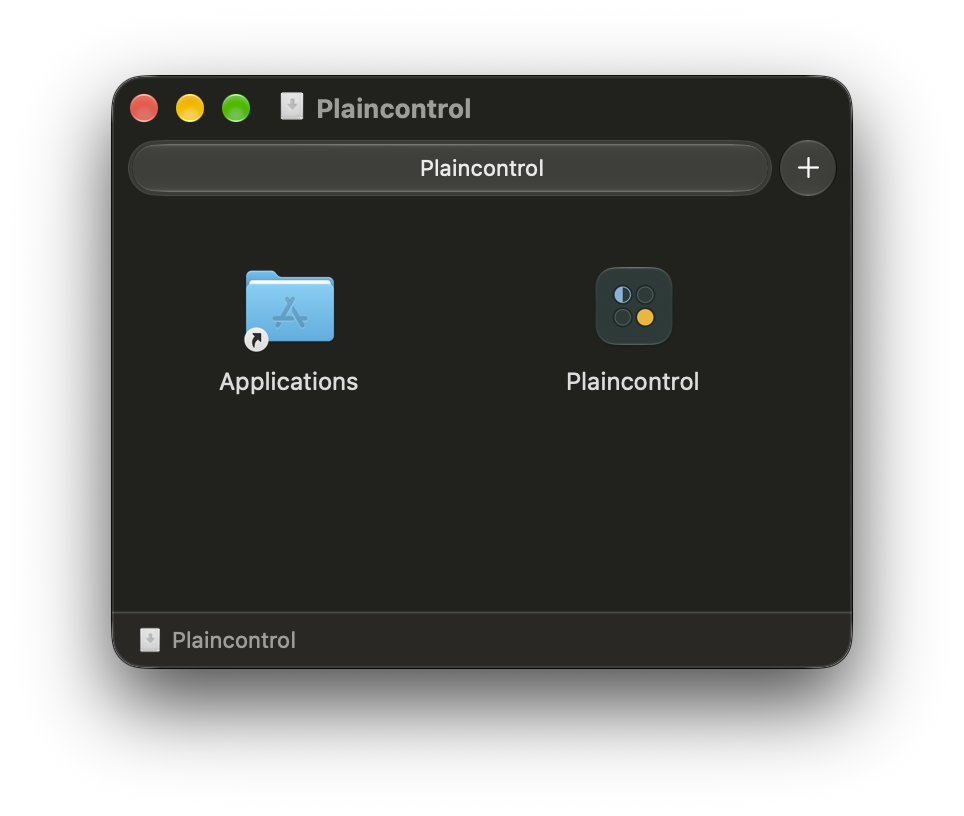
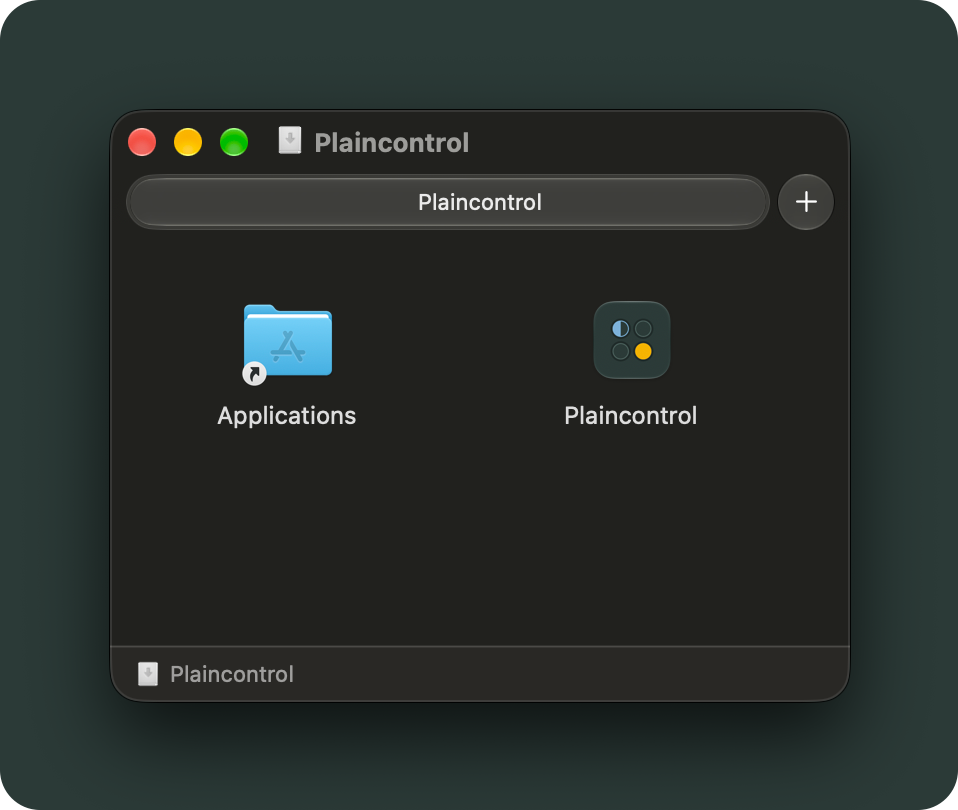
docs: put every screenshot on the same panel
The launcher stood on a dark green panel with rounded corners; the
menu, settings, welcome window and disk image floated on the page.
They now stand on the same panel, with the shadow macOS gives each
window, at the same scale as before.

diff --git a/README.md b/README.md
@@ -10,7 +10,7 @@
   <img src="https://img.shields.io/badge/platform-macOS%2026-lightgrey" alt="Platform: macOS 26">
 </p>
 
-<p align="center"><img src="docs/images/menu.png" width="386" alt="The Plaincontrol menu, listing four Claude Code sessions: one needs permission, one has a question, one is working and one is idle."></p>
+<p align="center"><img src="docs/images/menu.png" width="447" alt="The Plaincontrol menu, listing four Claude Code sessions: one needs permission, one has a question, one is working and one is idle."></p>
 
 - **See every session** in the menu bar, with the ones waiting on you counted and listed first.
 - **Get a notification** when a session finishes or asks you something.
@@ -33,13 +33,13 @@ brew install --cask martijnmul/tap/plaincontrol
 
 Or download [`Plaincontrol.dmg`](https://github.com/MartijnMul/plaincontrol/releases/latest/download/Plaincontrol.dmg), open it and drag Plaincontrol to Applications.
 
-<p align="center"><img src="docs/images/disk-image.png" width="321" alt="The opened disk image: the Plaincontrol app next to a shortcut to the Applications folder, to drag it onto."></p>
+<p align="center"><img src="docs/images/disk-image.png" width="319" alt="The opened disk image: the Plaincontrol app next to a shortcut to the Applications folder, to drag it onto."></p>
 
 ### 2. Open it
 
 Open **Plaincontrol** from Applications or Spotlight. A welcome window walks you through the rest: allowing **Accessibility**, which the launcher needs, connecting Claude Code (step 3 below), adding the projects you already worked on with Claude Code, and opening Plaincontrol when you log in. After that it has no window and no Dock icon: it lives in the menu bar, at the top right of your screen, where Getting Started… opens the welcome window again.
 
-<p align="center"><img src="docs/images/welcome.png" width="448" alt="The welcome window, with four numbered steps: allow Accessibility, connect Claude Code with the two plugin commands, bring in your projects, and try the launcher; below them a switch to open Plaincontrol when you log in."></p>
+<p align="center"><img src="docs/images/welcome.png" width="446" alt="The welcome window, with four numbered steps: allow Accessibility, connect Claude Code with the two plugin commands, bring in your projects, and try the launcher; below them a switch to open Plaincontrol when you log in."></p>
 
 The first time you jump to a session, macOS asks whether Plaincontrol may control your terminal (iTerm2 or Terminal): allow that too.
 
@@ -88,7 +88,7 @@ So **4** then **5** starts Claude Code in the fourth project. Actions for apps y
 
 Settings… in the menu (Command-comma). Every setting shows whether it is at its default and can be reset. They are stored in `~/.config/plaincontrol/settings.yaml`, which you can also edit by hand, from Edit as Text… in Settings › Advanced, or keep in your dotfiles; the window keeps your comments, and a schema next to it gives completion in editors with the YAML language server.
 
-<p align="center"><img src="docs/images/settings.png" width="431" alt="The settings window's General tab: the key that opens the launcher, the terminal, the editor, the browser, the Claude Code command and the order of a project's actions, each marked Default."></p>
+<p align="center"><img src="docs/images/settings.png" width="473" alt="The settings window's General tab: the key that opens the launcher, the terminal, the editor, the browser, the Claude Code command and the order of a project's actions, each marked Default."></p>
 
 ## Privacy
 
